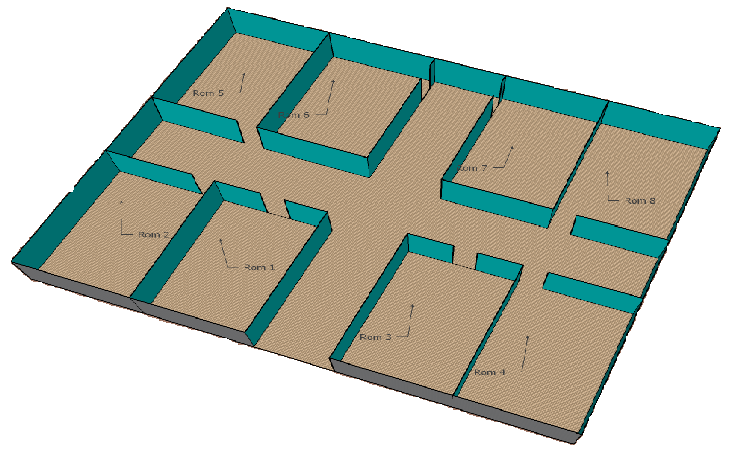
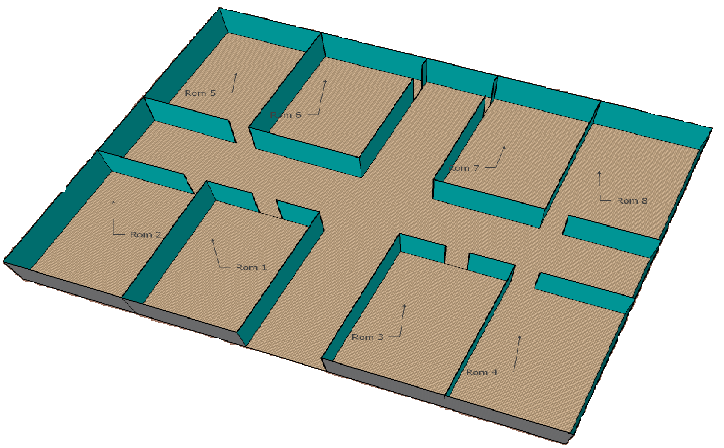
lagt til ny footer og fjernet hvit bakgrunn

Changed region(s): [[0.0, 0.0, 1.0, 1.0]]

diff --git a/Kode/html/Layout.html b/Kode/html/Layout.html
@@ -88,6 +88,7 @@
 
 		</form>
 		<img id="pipe" src="../../Bilder/Mario_pipe.png">
+			<div id="background"></div>
 	</div>
 
 	<!--TAGS FOR ROM KART -->
@@ -125,8 +126,9 @@
 	<!--TAGS FOR FOOTER-->
 
 
-<div id="footer"> <img class="footerBilde" src="../../Bilder/footer.png"></div>
+<footer id="footer"> <img class="footerBilde" src="../../Bilder/footer2.png"></footer>
 	<img id="mario" src="../../Bilder/mario.png">
+
 </section>
 
 

diff --git a/Kode/css/LayoutStyleSheet.css b/Kode/css/LayoutStyleSheet.css
@@ -39,8 +39,18 @@ top: -31px;
 width: 389px;
 }
 
+#background{
+  position: absolute;
+height: 789px;
+width: 100%;
+top: 51px;
+left: 0px;
+background-color: rgb(100,149,237);
+  z-index: -2;
+}
+
 #footer{
-  position: fixed;
+  position: absolute;
   height: 50px;
   width: 100%;
   bottom: 0px;
@@ -94,6 +104,7 @@ width: 389px;
   position: relative;
   left:0px;
   margin-right: auto; 
+
 
 }
     /*img tag for bygning bilde*/
